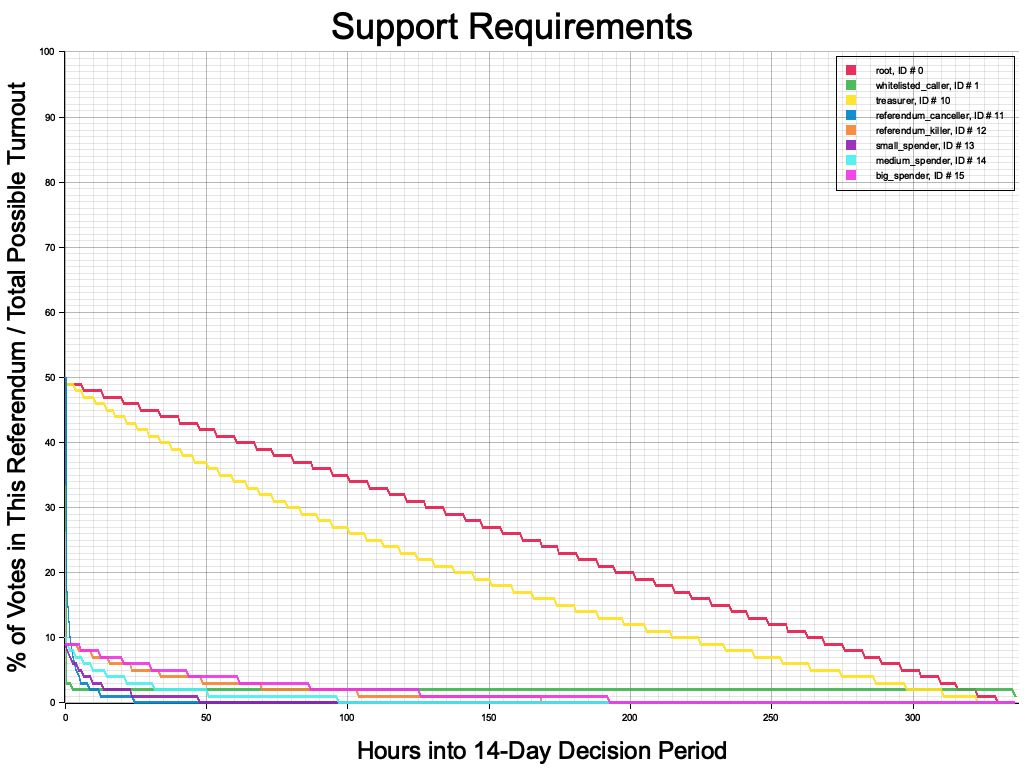
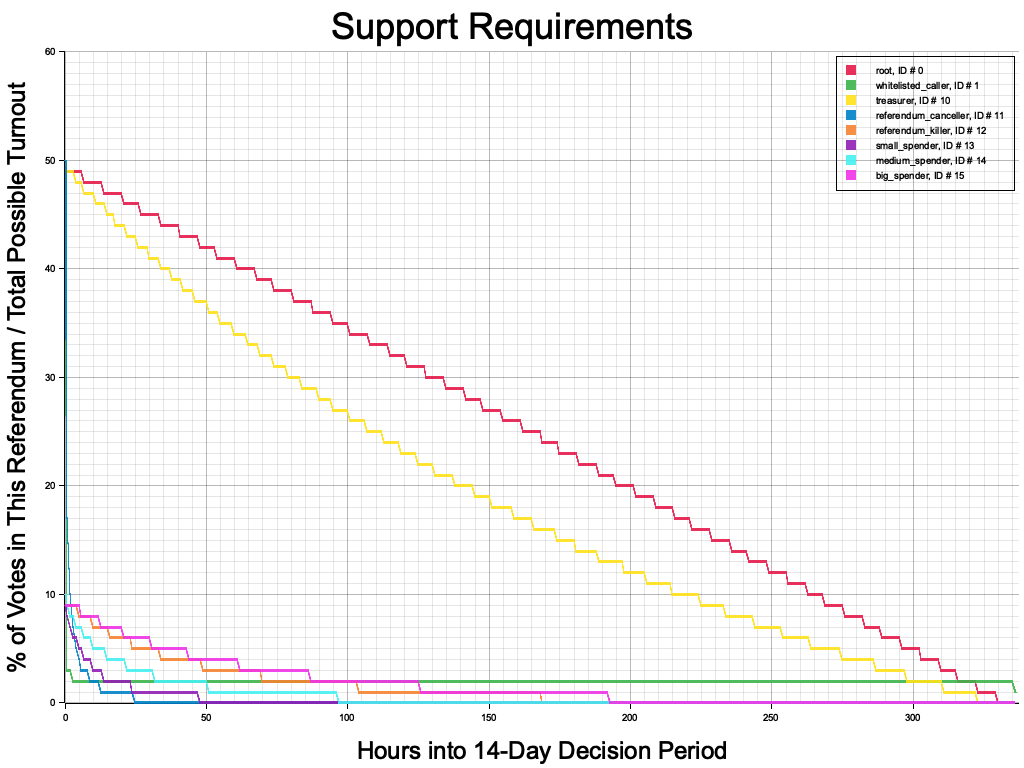
normalize comparison curves

Changed region(s): [[0.0312, 0.0625, 1.0, 0.9062]]

diff --git a/src/curve.rs b/src/curve.rs
@@ -344,11 +344,35 @@ fn plot_curves(ty: CurveType, curves: Curves) {
     };
     let grid = BitMapBackend::new(&plot_png, (1024, 768)).into_drawing_area();
     grid.fill(&WHITE).unwrap();
+    let (mut y_min, mut y_max) = (
+        Point {
+            x: 0u32,
+            y: Perbill::one(),
+        },
+        Point {
+            x: 0u32,
+            y: Perbill::zero(),
+        },
+    );
+    for curve in curves.iter() {
+        if curve.coordinate_threshold_max.y > y_max.y {
+            y_max = curve.coordinate_threshold_max;
+        }
+        if curve.coordinate_threshold_min.y < y_min.y {
+            y_min = curve.coordinate_threshold_min;
+        }
+    }
+    let (y_min, y_max) = (
+        perbill_to_percent_coordinate(y_min.y),
+        perbill_to_percent_coordinate(y_max.y),
+    );
+    let chart_y_min = if y_min > 10i32 { y_min - 10i32 } else { 0i32 };
+    let chart_y_max = if y_max < 90i32 { y_max + 10i32 } else { 100i32 };
     let mut plot = ChartBuilder::on(&grid)
         .caption(&plot_title, ("sans-serif", 45))
         .margin(5)
         .set_left_and_bottom_label_area_size(60)
-        .build_cartesian_2d(0..time.length, 0..100)
+        .build_cartesian_2d(0..time.length, chart_y_min..chart_y_max)
         .unwrap();
     let x_axis_label = match time.unit {
         Time::Hour => format!("Hours into {}-Day Decision Period", time.length / 24),
